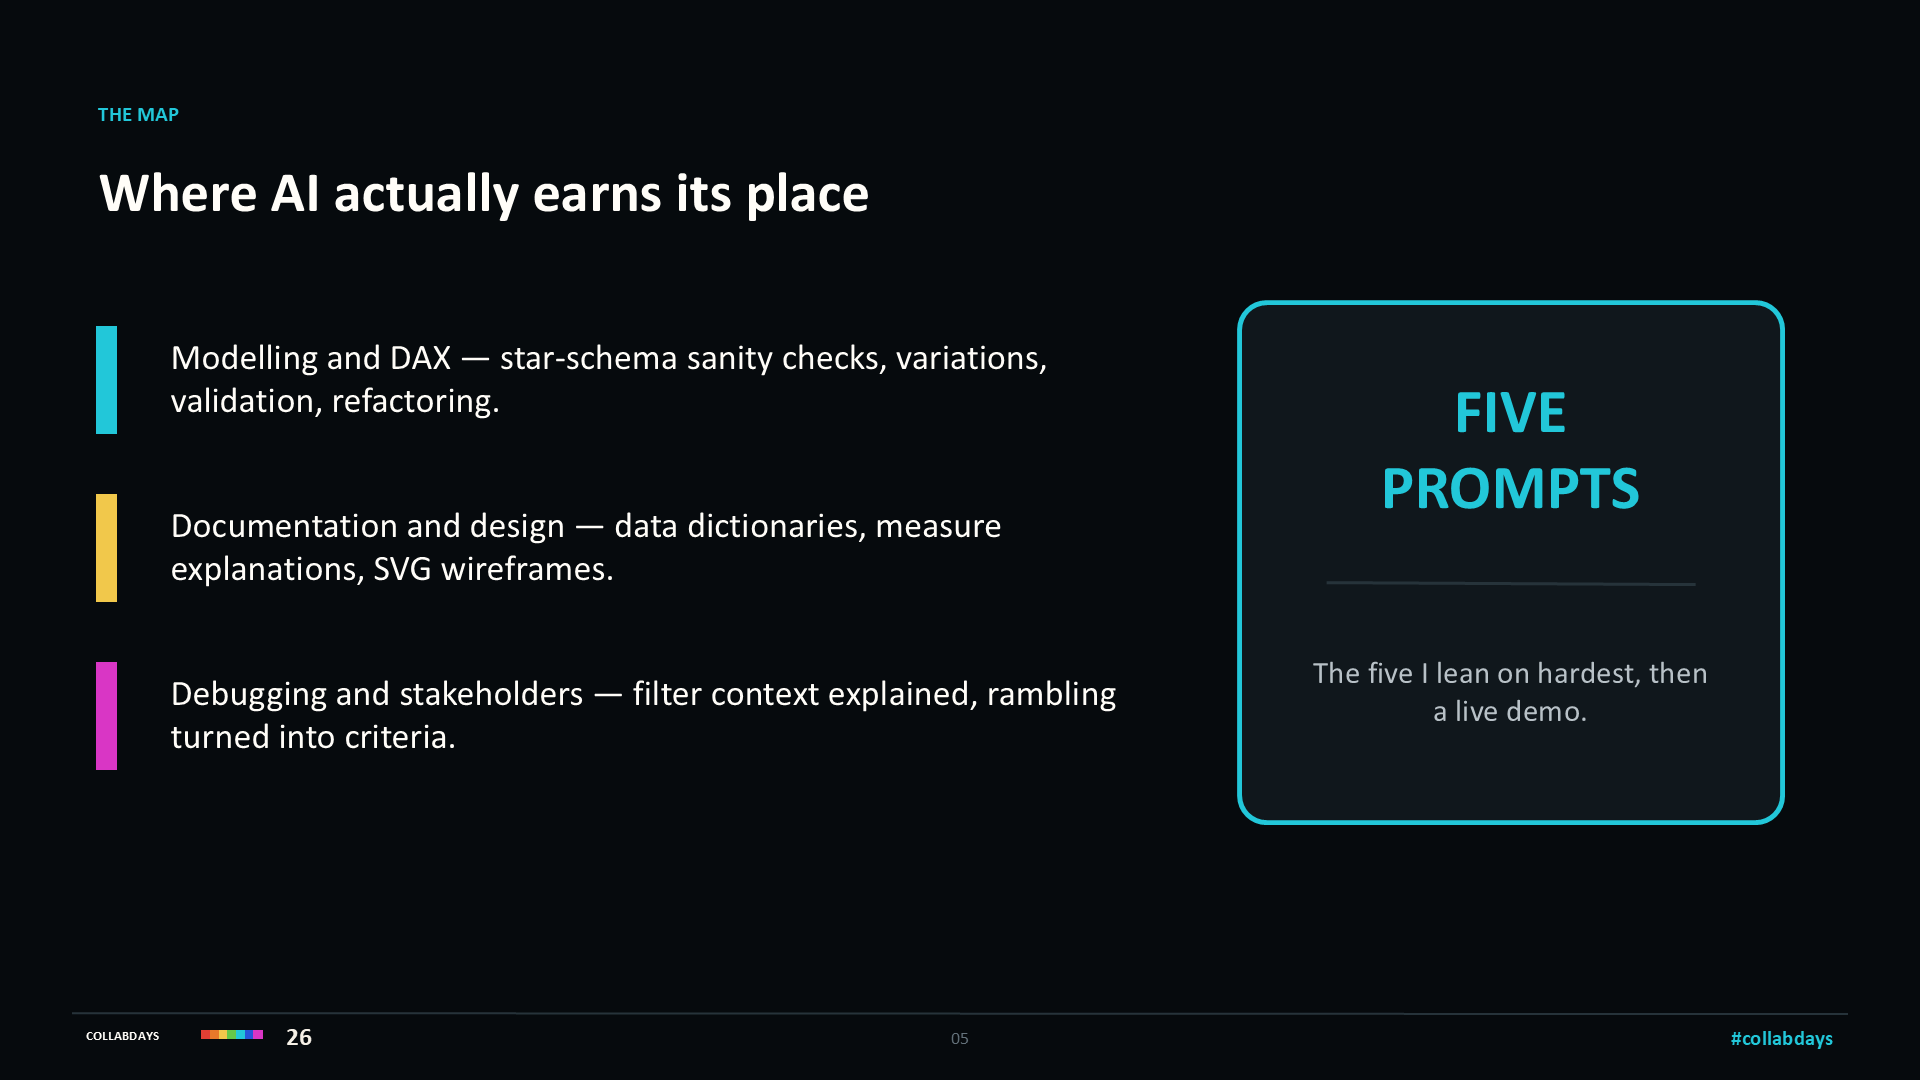
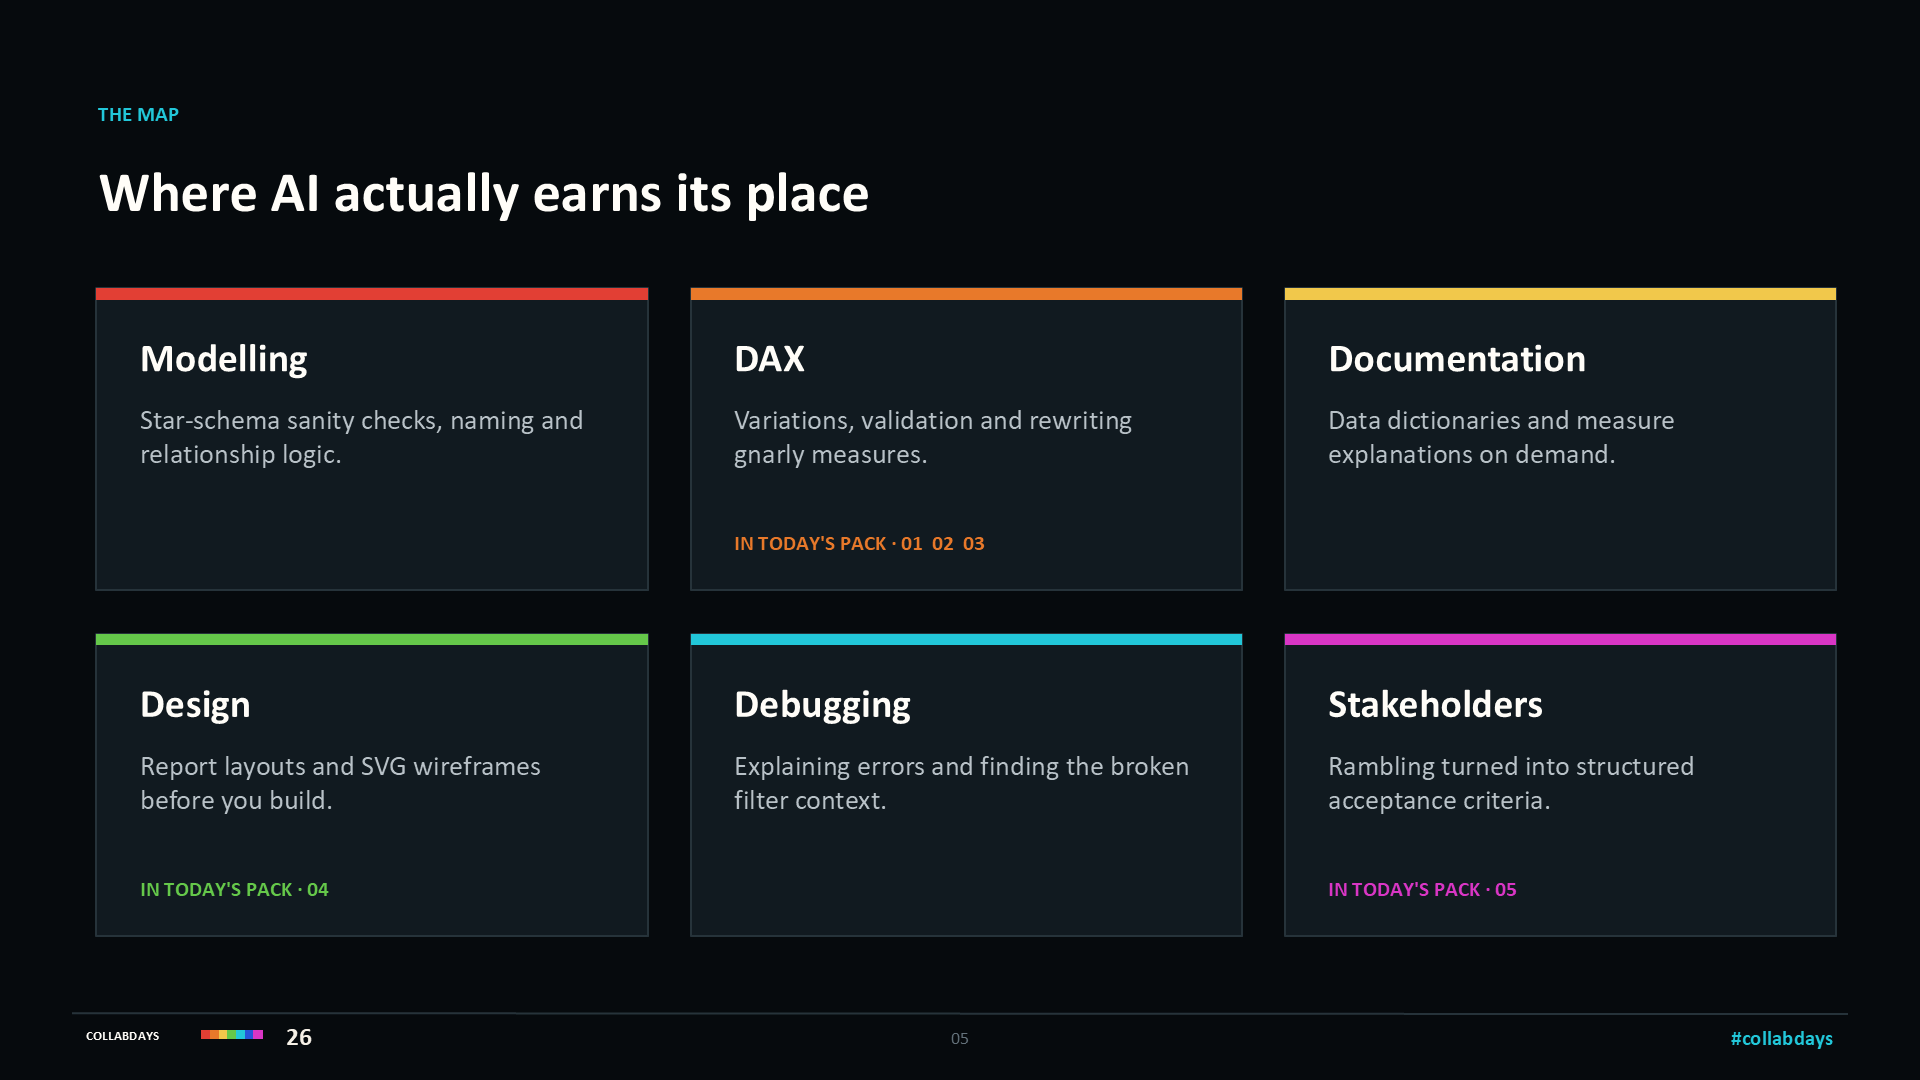
Redesign CollabDays slides, add speaker photos, stack prompts vertically
collabdays-2026: every content slide now has its own composition in the
organiser's palette (terminal window, before/after DAX, drawn wireframe,
sticky note to acceptance criteria, trust split, QR card) instead of
reusing two template layouts ten times. Headshot on the title slide,
speaking shot on the close. Prompts 01-05 are vertical children of "The
Prompt Pack" so the story reads left to right and the pack stacks down.

ai-for-power-bi-professionals: headshot on the title slide and speaking
shot on the thank-you slide, plus the AI-BI repo on the close.

diff --git a/decks/collabdays-2026/slides.md b/decks/collabdays-2026/slides.md
@@ -1,7 +1,7 @@
 <!-- .slide: data-background-image="https://raw.githubusercontent.com/DuncanBoyne/speakingdecks/main/decks/collabdays-2026/slides/01.png" data-background-size="contain" data-background-color="#060A0D" -->
 
 Notes:
-Hold this while the room fills. 30 minutes, live demo inside, and they leave with prompts they can paste on Monday. Event date, venue, CollabDays 26 mark and #collabdays are unchanged per the template notes.
+Hold this while the room fills. 30 minutes, live demo inside, and they leave with prompts they can paste on Monday.
 
 ---
 
@@ -29,56 +29,56 @@ Land it and pause. Everything after this slide is evidence for that sentence. Co
 <!-- .slide: data-background-image="https://raw.githubusercontent.com/DuncanBoyne/speakingdecks/main/decks/collabdays-2026/slides/05.png" data-background-size="contain" data-background-color="#060A0D" -->
 
 Notes:
-Signpost the shape of the session: five prompts, then ten minutes live. People relax once they know what's coming.
+Six places AI earns its keep; three of them are in today's pack. Signpost the shape: five prompts, then ten minutes live.
 
 ---
 
 <!-- .slide: data-background-image="https://raw.githubusercontent.com/DuncanBoyne/speakingdecks/main/decks/collabdays-2026/slides/06.png" data-background-size="contain" data-background-color="#060A0D" -->
 
 Notes:
-Reset the room. Tell them the prompts are all in one public repo, so they can listen instead of typing.
+Reset the room. Tell them every prompt is in one public repo, so they can listen instead of typing.
 
----
+--
 
 <!-- .slide: data-background-image="https://raw.githubusercontent.com/DuncanBoyne/speakingdecks/main/decks/collabdays-2026/slides/07.png" data-background-size="contain" data-background-color="#060A0D" -->
 
 Notes:
-The magic words are “three ways” and “explain the trade-off” - that is what turns a code generator into a teaching tool. Ask how many have shipped a measure that broke on a blank.
+The magic words are “three ways” and “explain the trade-off” - that turns a code generator into a teaching tool. Ask how many have shipped a measure that broke on a blank.
 
----
+--
 
 <!-- .slide: data-background-image="https://raw.githubusercontent.com/DuncanBoyne/speakingdecks/main/decks/collabdays-2026/slides/08.png" data-background-size="contain" data-background-color="#060A0D" -->
 
 Notes:
 “Don't fix it yet” IS the prompt. Without it the model rewrites your measure and you learn nothing. Highest-value prompt in the pack for anyone past beginner - if the room is senior, spend the extra minute here.
 
----
+--
 
 <!-- .slide: data-background-image="https://raw.githubusercontent.com/DuncanBoyne/speakingdecks/main/decks/collabdays-2026/slides/09.png" data-background-size="contain" data-background-color="#060A0D" -->
 
 Notes:
-Show of hands: who has inherited a measure they hate? That earns the next ninety seconds. “The change-list is the documentation you never wrote” is the line people quote back to you afterwards.
+Show of hands: who has inherited a measure they hate? The example is illustrative - same result, names that read in English. Then the line: the change-list it gives you back is the documentation you never wrote.
 
----
+--
 
 <!-- .slide: data-background-image="https://raw.githubusercontent.com/DuncanBoyne/speakingdecks/main/decks/collabdays-2026/slides/10.png" data-background-size="contain" data-background-color="#060A0D" -->
 
 Notes:
-“Greyscale, no real data” does two jobs: keeps the conversation about layout instead of colour, and keeps client data out of the prompt. Say both out loud.
+“Greyscale, no real data” does two jobs: keeps the conversation about layout instead of colour, and keeps client data out of the prompt. The panel on the right is the kind of thing that comes back.
 
----
+--
 
 <!-- .slide: data-background-image="https://raw.githubusercontent.com/DuncanBoyne/speakingdecks/main/decks/collabdays-2026/slides/11.png" data-background-size="contain" data-background-color="#060A0D" -->
 
 Notes:
-Emphasise the open-questions list - that is what stops scope creep, and it is the bit nobody thinks to ask for. Mention you now do this live in workshops with the client watching.
+Point at the open questions - that is what stops scope creep, and it is the bit nobody thinks to ask for. You now do this live in workshops with the client watching.
 
 ---
 
 <!-- .slide: data-background-image="https://raw.githubusercontent.com/DuncanBoyne/speakingdecks/main/decks/collabdays-2026/slides/12.png" data-background-size="contain" data-background-color="#060A0D" -->
 
 Notes:
-Do not cut this slide for time. It is what makes the rest of the talk credible, and it is the slide the sceptics are waiting for.
+Do not cut this slide for time. It makes the rest of the talk credible, and it is the slide the sceptics are waiting for.
 
 ---
 
@@ -99,14 +99,14 @@ Close the loop back to the reframe: none of it replaced judgement, all of it rem
 <!-- .slide: data-background-image="https://raw.githubusercontent.com/DuncanBoyne/speakingdecks/main/decks/collabdays-2026/slides/15.png" data-background-size="contain" data-background-color="#060A0D" -->
 
 Notes:
-Say the repo name slowly, twice, and leave it on screen. This is also the moment to push the link to every phone if you are running the follower deck on slides.mightora.io.
+Leave the QR up and say the repo name once. If you're running the follower deck on slides.mightora.io, push the link to every phone now too.
 
 ---
 
 <!-- .slide: data-background-image="https://raw.githubusercontent.com/DuncanBoyne/speakingdecks/main/decks/collabdays-2026/slides/16.png" data-background-size="contain" data-background-color="#060A0D" -->
 
 Notes:
-Only ask once, and keep it light - they have already given you 30 minutes. Left card is the UK Community Awards (Community Rising Star, and NPPUG for Best User Group), right card is ESPC Inspire. Leave it up for about fifteen seconds so phones can focus, then move straight on to Mark's slide - that one matters more than mine.
+Only ask once, and keep it light. Left card is the UK Community Awards (Community Rising Star, and NPPUG for Best User Group), right card is ESPC Inspire. Leave it up about fifteen seconds, then straight on to Mark's slide - that one matters more than mine.
 
 ---
 
@@ -120,4 +120,4 @@ Mandatory fundraiser slide. Please retain it in the final session deck and allow
 <!-- .slide: data-background-image="https://raw.githubusercontent.com/DuncanBoyne/speakingdecks/main/decks/collabdays-2026/slides/18.png" data-background-size="contain" data-background-color="#060A0D" -->
 
 Notes:
-Leave this up through Q&A. Keep #collabdays and the sponsor thank-you line per the template notes.
+Leave this up through Q&A. #collabdays and the sponsor thank-you line are kept per the template notes.

diff --git a/decks/ai-for-power-bi-professionals/slides.md b/decks/ai-for-power-bi-professionals/slides.md
@@ -1,9 +1,12 @@
 <!-- .slide: data-background-gradient="linear-gradient(135deg, #0b0b0d 0%, #2a0a0a 55%, #0b0b0d 100%)" -->
-# AI for Power BI Professionals
-
-### The prompt pack that actually makes *you* better at your job
-
-Duncan Boyne — Power BI Consultant / AI Strategist
+<div class="r-hstack" style="align-items:center; gap:30px">
+<div style="flex:1; text-align:left">
+<h1 style="font-size:2.1em">AI for Power BI Professionals</h1>
+<h3>The prompt pack that actually makes <em>you</em> better at your job</h3>
+<p>Duncan Boyne — Power BI Consultant / AI Strategist</p>
+</div>
+<img src="https://raw.githubusercontent.com/DuncanBoyne/speakingdecks/main/decks/ai-for-power-bi-professionals/img/duncan-headshot.png" alt="Duncan Boyne" style="height:470px; margin:0; border:0; box-shadow:none; background:none">
+</div>
 
 Notes:
 Hold this slide while people arrive — in presenter mode it shows the join QR code, so point at it and tell the room to scan if they want the slides on their own phone. Set expectations early: 30 minutes, live demo inside, and they leave with prompts they can paste on Monday.
@@ -292,11 +295,15 @@ Send this link as a follower message NOW from the Controls panel — the overlay
 
 ---
 
-# Thank you
-
-**Duncan Boyne** — Power BI Consultant / AI Strategist
-
-Please rate the session — 30 seconds, it genuinely helps.
+<div class="r-hstack" style="align-items:center; gap:30px">
+<div style="flex:1; text-align:left">
+<h1>Thank you</h1>
+<p><strong>Duncan Boyne</strong> — Power BI Consultant / AI Strategist</p>
+<p>Every prompt from today: <strong>github.com/DuncanBoyne/AI-BI</strong></p>
+<p style="font-size:0.8em">Please rate the session — 30 seconds, it genuinely helps.</p>
+</div>
+<img src="https://raw.githubusercontent.com/DuncanBoyne/speakingdecks/main/decks/ai-for-power-bi-professionals/img/duncan-speaking.png" alt="Duncan Boyne speaking" style="height:520px; margin:0; border:0; box-shadow:none; background:none">
+</div>
 
 Notes:
 Leave this up through Q&A so your name stays on screen.
